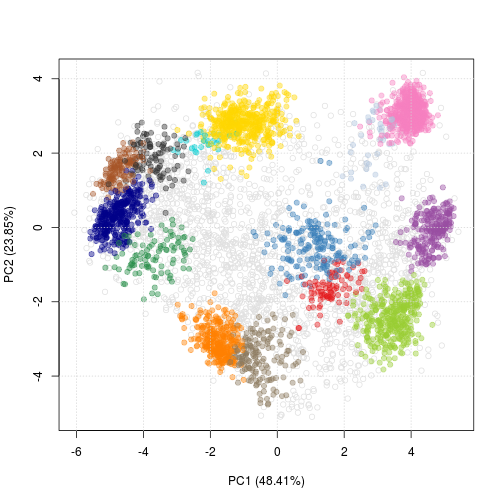
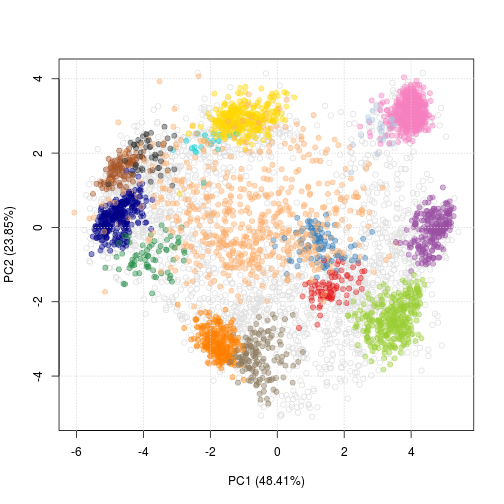
Close #19: use markers rather than SVM.marker.set, and remove Golgi using fDataToUnknown

diff --git a/bioc-workflow.md b/bioc-workflow.md
@@ -5,21 +5,6 @@ output: html_document
 ---
 
 
-```
-## Warning in .recacheSubclasses(def@className, def, doSubclasses, env):
-## undefined subclass "daboostCont" of class "listOrdata.frame"; definition
-## not updated
-```
-
-```
-## Warning in .recacheSubclasses(def@className, def, doSubclasses, env):
-## undefined subclass "daboostCont" of class "input"; definition not updated
-```
-
-```
-## Warning in .recacheSubclasses(def@className, def, doSubclasses, env):
-## undefined subclass "daboostCont" of class "output"; definition not updated
-```
 
 # Introduction
 
@@ -606,7 +591,7 @@ hyperLOPIT
 ## experimentData: use 'experimentData(object)'
 ## Annotation:  
 ## - - - Processing information - - -
-## Combined [6725,20] and [6268,10] MSnSets Thu Aug 25 13:21:59 2016 
+## Combined [6725,20] and [6268,10] MSnSets Sat Aug 27 16:30:57 2016 
 ##  MSnbase version: 1.19.3
 ```
 
@@ -663,10 +648,10 @@ hyperLOPIT
 ## experimentData: use 'experimentData(object)'
 ## Annotation:  
 ## - - - Processing information - - -
-## Combined [6725,20] and [6268,10] MSnSets Thu Aug 25 13:21:59 2016 
-## Subset [6725,20][5032,20] Thu Aug 25 13:21:59 2016 
-## Removed features with more than 0 NAs: Thu Aug 25 13:22:00 2016 
-## Dropped featureData's levels Thu Aug 25 13:22:00 2016 
+## Combined [6725,20] and [6268,10] MSnSets Sat Aug 27 16:30:57 2016 
+## Subset [6725,20][5032,20] Sat Aug 27 16:30:58 2016 
+## Removed features with more than 0 NAs: Sat Aug 27 16:30:58 2016 
+## Dropped featureData's levels Sat Aug 27 16:30:58 2016 
 ##  MSnbase version: 1.19.3
 ```
 
@@ -882,6 +867,37 @@ markers and empty circles for the features of unknown localisation)
 can of course be changed, as described in the `setStockcol` manual
 page.
 
+As demonstrated in [@hyper] and illustrated in the PCA plot above, the
+Golgi apparatus proteins display a dynamic pattern, noting sets of
+Golgi marker proteins that are distributed amongst other subcellular
+structures, an observation supported by microscopy. As such, we are
+going to reset the annotation of Golgi markers to unknown using the
+`fDataTounknown` function. It is often used to replace empty strings
+("") or missing values in the markers definition to a common
+definition of *unknown localisation*.
+
+
+```r
+hl <- fDataToUnknown(hl, from = "Golgi", to = "unknown")
+getMarkers(hl)
+```
+
+```
+## organelleMarkers
+##            40S Ribosome            60S Ribosome      Actin cytoskeleton 
+##                      27                      43                      13 
+##                 Cytosol   Endoplasmic reticulum                Endosome 
+##                      43                      95                      12 
+##    Extracellular matrix                Lysosome           Mitochondrion 
+##                      10                      33                     383 
+##     Nucleus - Chromatin Nucleus - Non-chromatin              Peroxisome 
+##                      64                      85                      17 
+##         Plasma membrane              Proteasome                 unknown 
+##                      51                      34                    4095 
+##       unknown apparatus 
+##                      27
+```
+
 In general, the Gene Ontology (GO) [@Ashburner:2000], and in
 particular the cellular compartment (CC) namespace are a good starting
 point for protein annotation and marker definition. It is important to
@@ -999,8 +1015,8 @@ two figures with the same orientation.
 
 ```r
 par(mfrow = c(1, 2))
-plot2D(hl[, hl$replicate == 1], fcol = "SVM.marker.set", main = "Replicate 1")
-plot2D(hl[, hl$replicate == 2], fcol = "SVM.marker.set", main = "Replicate 2",
+plot2D(hl[, hl$replicate == 1], main = "Replicate 1")
+plot2D(hl[, hl$replicate == 2], main = "Replicate 2",
        mirrorX = TRUE)
 ```
 
@@ -1298,7 +1314,7 @@ We can plot the results using the `plot2D` function.
 
 ```r
 ## Re-order the colours for the phenoDisco output
-cl <- getMarkerClasses(pdRes, "pd", verbose = FALSE)
+cl <- getMarkerClasses(pdRes, "pd")
 cols <- getStockcol()[seq(cl)]
 ind <- grep("Pheno", cl, invert = TRUE)
 cols[ind] <- getStockcol()[seq(cl)][1:length(ind)]
@@ -1365,49 +1381,52 @@ choice.
 ## Optimisation
 
 In the code chunk below we employ the use of a Support Vector Machine
-(SVM) to learn a classifier on the labelled training data. The
-training data is found in the `featureData` slot in the column called
-`SVM.marker.set`. As previously mentioned one first needs to train the
-classifiers parameters before an algorithm can be used to predict the
-class labels of the proteins with unknown location. One of the most
-common ways to optimise the parameters of a classifier is to partition
-the labelled data in to training and testing subsets. In this
-framework parameters are tested via a grid search using
-cross-validation on the training partition. The best parameters chosen
-from the cross-validation stage are then used to build a classifier to
-predict the class labels of the protein profiles on the test
-partition. Observed and expected classication results can be compared,
-and then used to assess how well a given model works by getting an
-estimate of the classiers ability to achieve a good generalisation
-i.e. that is given an unknown example predict its class label with
-high accuracy. In `pRoloc` algorithmic performance is estimated using
-stratified 80/20 partitioning for the training/testing subsets
-respectively, in conjuction with five-fold cross-validation in order
-to optimise the free parameters via a grid search. This procedure is
-usually repeated 100 times and then the best parameter(s) are selected
-upon investigation of classifier accuracy, here we use the harmonic
-mean of precision and recall; the macro F1 score. In the code chunk
-below we demonstrate how to optimise the free parameters; `sigma` and
-`cost`, of a classical SVM classifier with a Gaussian kernel using the
-function `svmOptimisation`. As the number of labelled instances per
-class varies from organelle to organelle, we can account for class
-imbalance by setting specific class weights when generating the SVM
-model. Below the weights, `w` are set to be inversely proportional to
-the class frequencies. 
+(SVM) to learn a classifier on the labelled training data. As
+previously mentioned one first needs to train the classifiers
+parameters before an algorithm can be used to predict the class labels
+of the proteins with unknown location. One of the most common ways to
+optimise the parameters of a classifier is to partition the labelled
+data in to training and testing subsets. In this framework parameters
+are tested via a grid search using cross-validation on the training
+partition. The best parameters chosen from the cross-validation stage
+are then used to build a classifier to predict the class labels of the
+protein profiles on the test partition. Observed and expected
+classication results can be compared, and then used to assess how well
+a given model works by getting an estimate of the classiers ability to
+achieve a good generalisation i.e. that is given an unknown example
+predict its class label with high accuracy. In `pRoloc` algorithmic
+performance is estimated using stratified 80/20 partitioning for the
+training/testing subsets respectively, in conjuction with five-fold
+cross-validation in order to optimise the free parameters via a grid
+search. This procedure is usually repeated 100 times and then the best
+parameter(s) are selected upon investigation of classifier accuracy,
+here we use the harmonic mean of precision and recall; the macro F1
+score. In the code chunk below we demonstrate how to optimise the free
+parameters; `sigma` and `cost`, of a classical SVM classifier with a
+Gaussian kernel using the function `svmOptimisation`. As the number of
+labelled instances per class varies from organelle to organelle, we
+can account for class imbalance by setting specific class weights when
+generating the SVM model. Below the weights, `w` are set to be
+inversely proportional to the class frequencies. 
 
 
 
 
 ```r
-(w <- table(fData(pdRes)[, "SVM.marker.set"]))
+w <- table(getMarkers(pdRes, verbose = TRUE))
 w <- 1/w[names(w) != "unknown"]
 
 ## 100 rounds of optimisation with five-fold cross-validation
-params <- svmOptimisation(pdRes, fcol = "SVM.marker.set",
+params <- svmOptimisation(pdRes, fcol = "markers",
                           times = 100, xval = 5,
                           class.weights = w,
                           verbose = FALSE)
 ```
+
+As mentioned previously, we reply on the default feature variable
+`"markers"` to define the class labels and hence can ommit it. To use
+another feature variables, one need to explicitly specify its name
+using the `fcol` argument (for example `fcol = "markers2"`).
 
 The output `params` is an object of class `GenRegRes`; a dedicated
 container for the storage of the design and results from a machine
@@ -1446,16 +1465,15 @@ classifier from the labelled marker proteins.
 We can use the function `svmClassification` to return a classification
 result for all unlabelled instances in the dataset corresponding to
 their most likely sub-cellular location. The algorithm parameters are
-passed to the function, along with the class weights and the `fcol` to
-tell the function where the labelled training data is located, in our
-case, our marker proteins are located in the `featureData` with the
-label `"SVM.marker.set"`.
+passed to the function, along with the class weights. As above, `fcol`
+can be ignored as we use the labels defined in the default `"markers"`
+feature variable.
 
 
 ```r
 svmres <- svmClassification(pdRes, params,
                             class.weights = w,
-                            fcol = "SVM.marker.set")
+                            fcol = "markers")
 ```
 
 Automatically, the output of the above classification; the organelle
@@ -1509,7 +1527,10 @@ cell is challenging (especially obtaining dual- and multiply-localised
 protein markers) and (2) many sub-cellular niches contain too few
 proteins to train on (we recommend a minimum of 13 markers per
 sub-cellular class for stratified 80/20 partitioning and 5-fold
-cross-validation - this allows a minimum of ~10 examples for parameter optimisation on the training partition i.e. 2 per fold for 5-fold cross-validation, and then 3 for testing the best parameters on the validation set). <!--Conversely, with defining markers one must also
+cross-validation - this allows a minimum of ~10 examples for parameter
+optimisation on the training partition i.e. 2 per fold for 5-fold
+cross-validation, and then 3 for testing the best parameters on the
+validation set). <!--Conversely, with defining markers one must also
 be careful to not label too many markers, as this can lead to
 overfitting and mis-assignment.-->
 
@@ -1523,7 +1544,7 @@ per organelle.
 
 ```r
 ## First remove the markers
-preds <- unknownMSnSet(svmres, fcol = "SVM.marker.set")
+preds <- unknownMSnSet(svmres)
 
 ## Plot a boxplot of the scores of each organelle
 par(oma= c(10.5, 0, 0, 0))
@@ -1554,81 +1575,45 @@ thresholds are labelled as unknown.
 ts <- orgQuants(svmres, 
                 fcol = "svm", 
                 scol = "svm.scores",
-                mcol = "SVM.marker.set", 
+                mcol = "markers", 
                 t = .5)
 ```
 
 ```
-##                          40S Ribosome 
-##                             0.4341137 
-##                          60S Ribosome 
-##                             0.3010607 
-##                    Actin cytoskeleton 
-##                             0.3893434 
-##                               Cytosol 
-##                             0.6559441 
-## Endoplasmic reticulum/Golgi apparatus 
-##                             0.7104011 
-##                              Endosome 
-##                             0.4060792 
-##                  Extracellular matrix 
-##                             0.4083229 
-##                              Lysosome 
-##                             0.5933408 
-##                         Mitochondrion 
-##                             0.9372301 
-##                   Nucleus - Chromatin 
-##                             0.7953840 
-##               Nucleus - Non-chromatin 
-##                             0.7015457 
-##                            Peroxisome 
-##                             0.3152419 
-##                       Plasma membrane 
-##                             0.7053194 
-##                            Proteasome 
-##                             0.4236308
+##            40S Ribosome            60S Ribosome      Actin cytoskeleton 
+##               0.4770151               0.4057463               0.3935451 
+##                 Cytosol   Endoplasmic reticulum                Endosome 
+##               0.7711319               0.7608277               0.3955721 
+##    Extracellular matrix                Lysosome           Mitochondrion 
+##               0.3657065               0.6190396               0.9659837 
+##     Nucleus - Chromatin Nucleus - Non-chromatin              Peroxisome 
+##               0.8173867               0.7896030               0.4852385 
+##         Plasma membrane              Proteasome       unknown apparatus 
+##               0.7156504               0.4644731               0.3999325
 ```
 
 ```r
 preds <- getPredictions(svmres, 
                         fcol = "svm",
                         scol = "svm.scores", 
-                        mcol = "SVM.marker.set",
+                        mcol = "markers",
                         t = ts)
 ```
 
 ```
 ## ans
-##                          40S Ribosome 
-##                                    85 
-##                          60S Ribosome 
-##                                   177 
-##                    Actin cytoskeleton 
-##                                    92 
-##                               Cytosol 
-##                                   305 
-## Endoplasmic reticulum/Golgi apparatus 
-##                                   426 
-##                              Endosome 
-##                                    98 
-##                  Extracellular matrix 
-##                                    28 
-##                              Lysosome 
-##                                   126 
-##                         Mitochondrion 
-##                                   537 
-##                   Nucleus - Chromatin 
-##                                   229 
-##               Nucleus - Non-chromatin 
-##                                   349 
-##                            Peroxisome 
-##                                    39 
-##                       Plasma membrane 
-##                                   332 
-##                            Proteasome 
-##                                   159 
-##                               unknown 
-##                                  2050
+##            40S Ribosome            60S Ribosome      Actin cytoskeleton 
+##                      76                      96                      66 
+##                 Cytosol   Endoplasmic reticulum                Endosome 
+##                     248                     283                      52 
+##    Extracellular matrix                Lysosome           Mitochondrion 
+##                      20                     103                     491 
+##     Nucleus - Chromatin Nucleus - Non-chromatin              Peroxisome 
+##                     218                     308                      26 
+##         Plasma membrane              Proteasome                 unknown 
+##                     282                     138                    2044 
+##       unknown apparatus 
+##                     581
 ```
 
 The output of `getPredictons` is the original `MSnSet` dataset with a new feature variable appended to the feature data called `fcol.pred` (i.e. in our case `svm.pred`) containing the prediction results. The results can also be visualied using `plot2D` function.
@@ -1652,10 +1637,10 @@ also `fvarLabels(svmres)`).
 
 ```r
 library("pRolocGUI")
-pRolocVis(svmres, app = "classify", 
-          fcol = "svm", 
+pRolocVis(svmres, app = "classify",
+          fcol = "svm",
 	        scol = "svm.scores",
-          mcol = "SVM.marker.set")
+          mcol = "markers")
 ```
 
 ![The classify application](./Figures/classify.png)
@@ -1673,7 +1658,8 @@ threshold can be set by moving the corresponding quantile slider. If one
 wished to set their own cut-offs the "User-defined" radio button must be selected
 and then the sliders for defining user-specified scores become active and the
 scores and highlighted on the boxplot by blue dots. For more information we refer
-users to the [*[pRolocGUI](http://bioconductor.org/packages/pRolocGUI)* tutorial vignette](http://bioconductor.org/packages/release/bioc/vignettes/pRolocGUI/inst/doc/pRolocGUI.html).
+users to the *[pRolocGUI](http://bioconductor.org/packages/pRolocGUI)* tutorial 
+[vignette](http://bioconductor.org/packages/release/bioc/vignettes/pRolocGUI/inst/doc/pRolocGUI.html).
 
 
 ## Transfer learning
@@ -1838,11 +1824,11 @@ sessionInfo()
 ## [8] datasets  base     
 ## 
 ## other attached packages:
-##  [1] pRolocdata_1.11.4    pRoloc_1.13.11       MLInterfaces_1.53.1 
+##  [1] pRolocdata_1.11.4    pRoloc_1.13.12       MLInterfaces_1.53.1 
 ##  [4] cluster_2.0.4        annotate_1.51.0      XML_3.98-1.4        
 ##  [7] AnnotationDbi_1.35.4 IRanges_2.7.12       S4Vectors_0.11.10   
 ## [10] MSnbase_1.99.0       ProtGenerics_1.5.1   BiocParallel_1.7.8  
-## [13] mzR_2.7.3            Rcpp_0.12.6          Biobase_2.33.0      
+## [13] mzR_2.7.4            Rcpp_0.12.6          Biobase_2.33.1      
 ## [16] BiocGenerics_0.19.2  gridExtra_2.2.1      BiocStyle_2.1.23    
 ## [19] knitr_1.14          
 ## 
@@ -1865,7 +1851,7 @@ sessionInfo()
 ## [46] iterators_1.0.8       fpc_2.1-10            stringr_1.0.0        
 ## [49] lme4_1.1-12           lpSolve_5.6.13        mime_0.5             
 ## [52] gtools_3.5.0          DEoptimR_1.0-6        zlibbioc_1.19.0      
-## [55] MASS_7.3-45           scales_0.4.0          BiocInstaller_1.23.6 
+## [55] MASS_7.3-45           scales_0.4.0          BiocInstaller_1.23.7 
 ## [58] pcaMethods_1.65.0     SparseM_1.7           RColorBrewer_1.1-2   
 ## [61] ggplot2_2.1.0         biomaRt_2.29.2        rpart_4.1-10         
 ## [64] stringi_1.1.1         RSQLite_1.0.0         genefilter_1.55.2    
